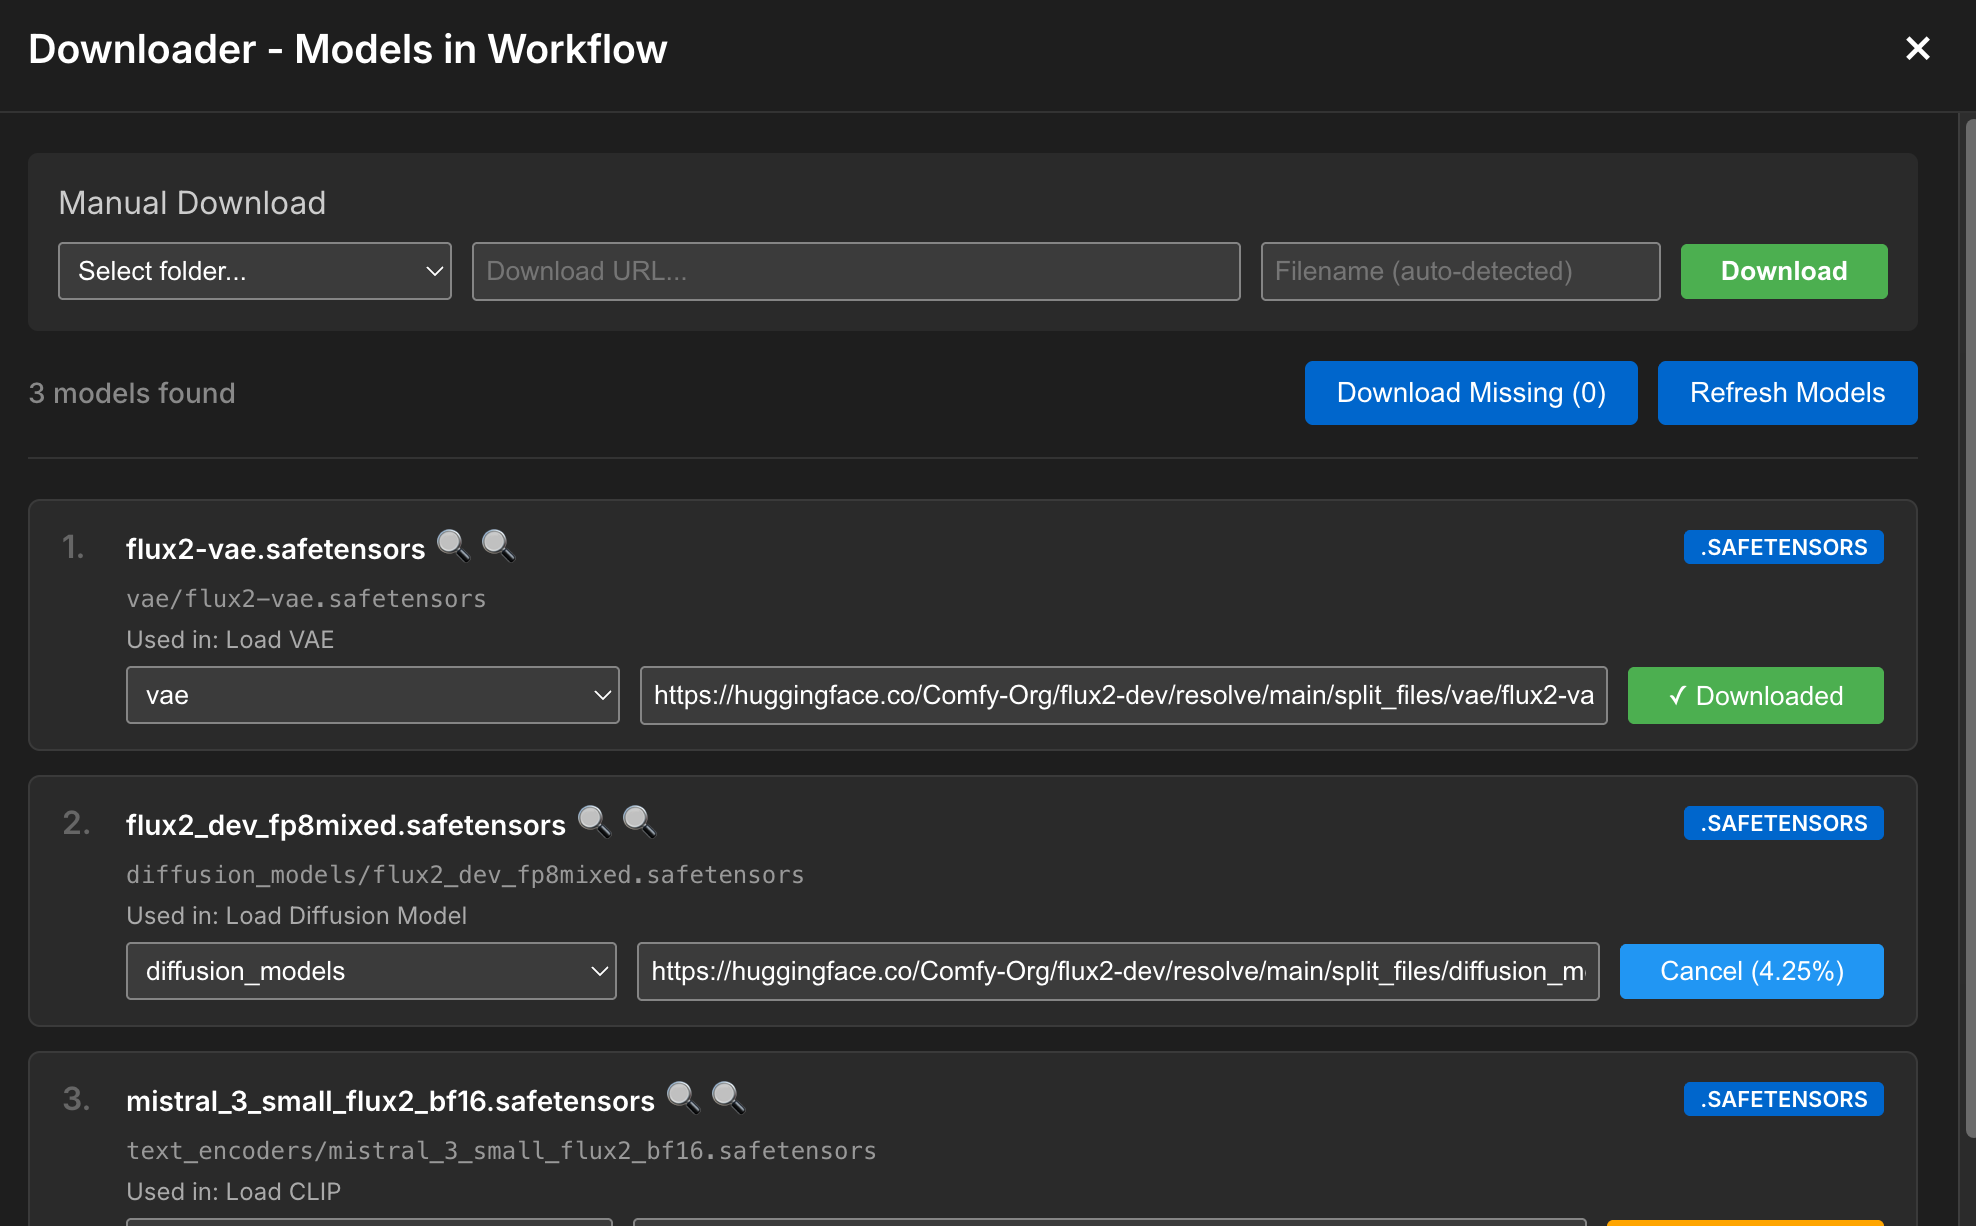
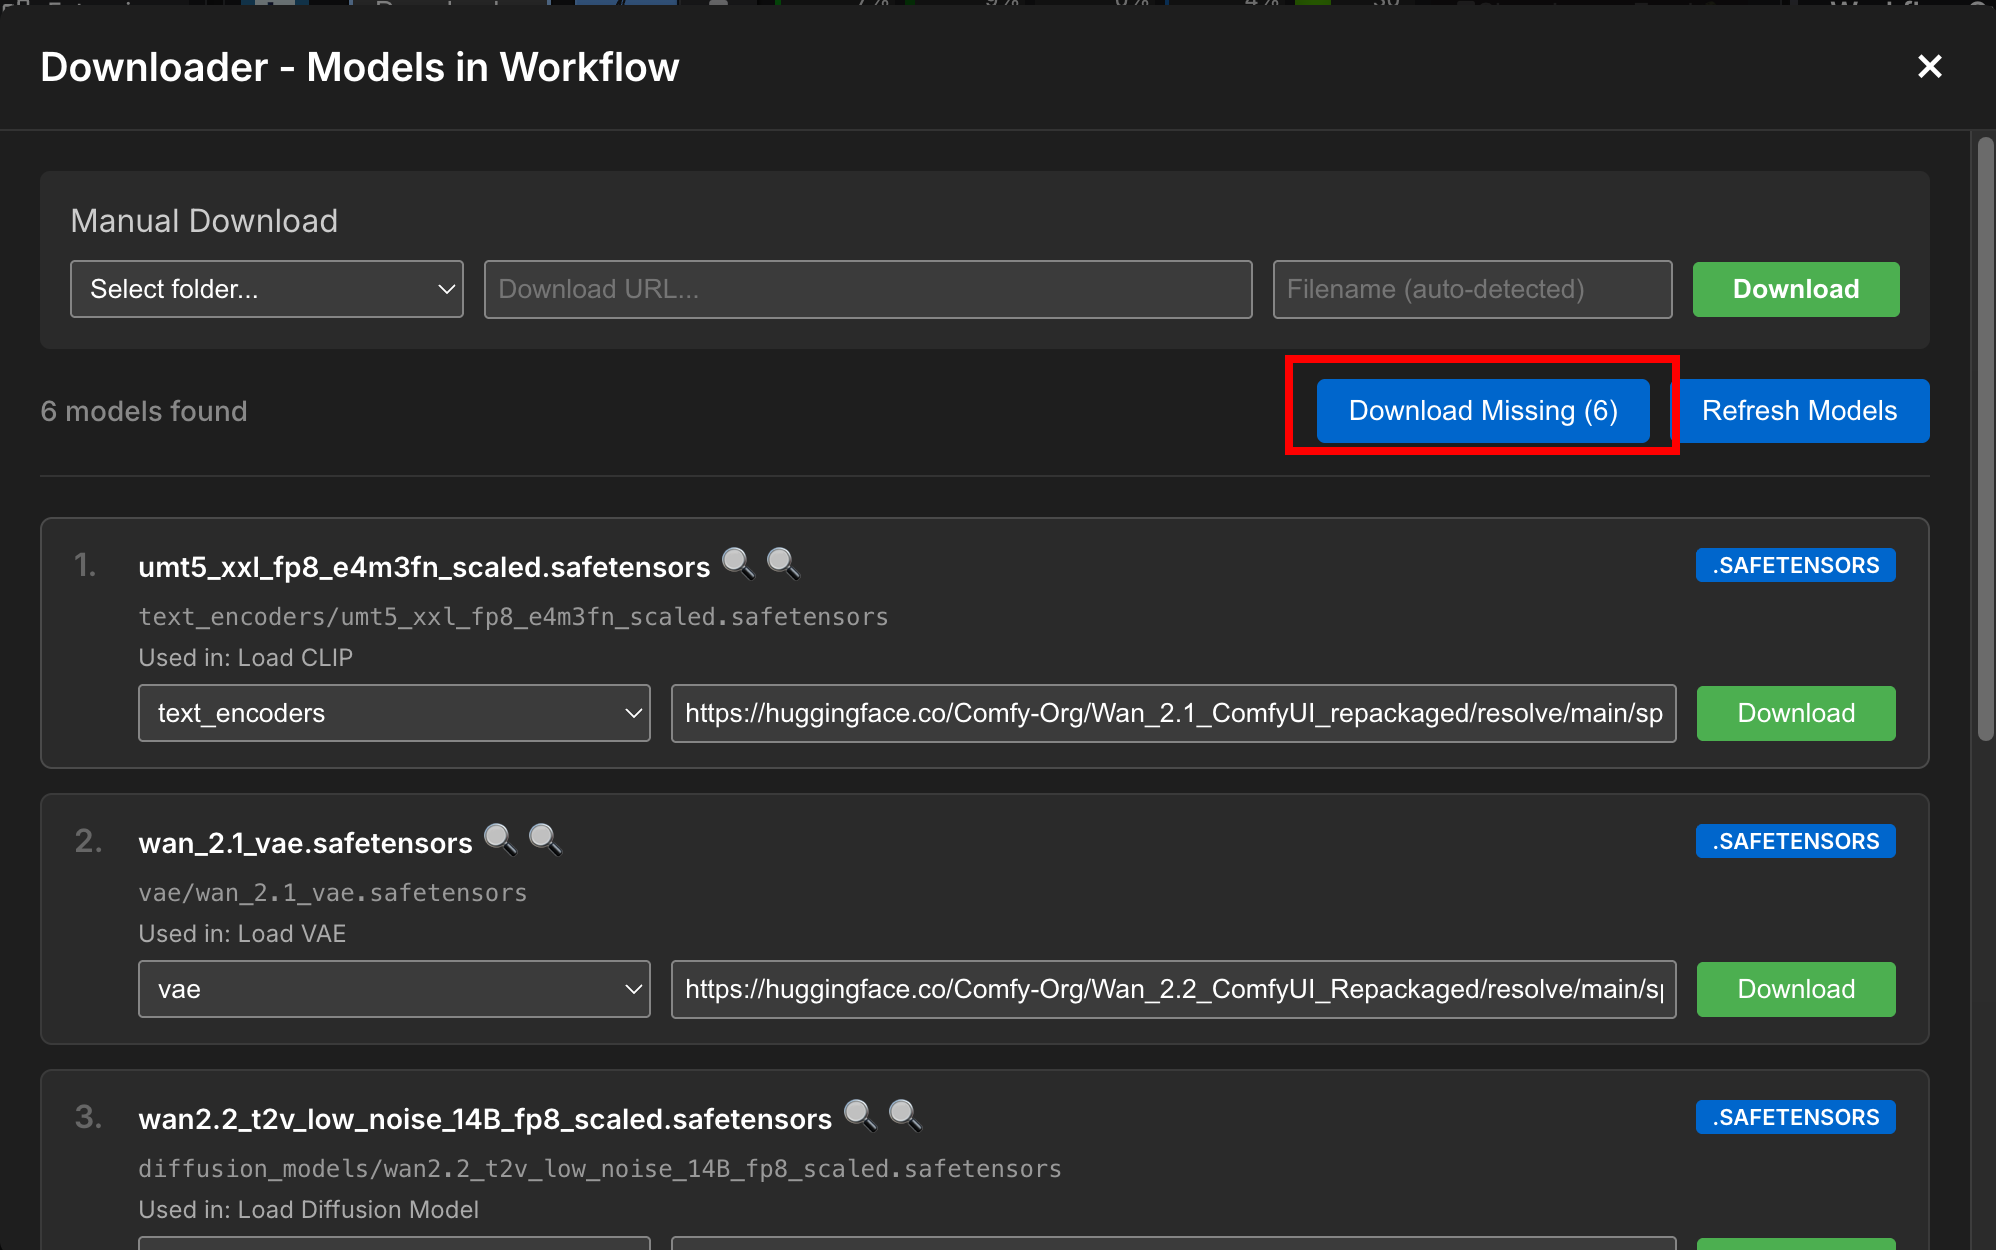
Refresh batch download screenshot

diff --git a/README.md b/README.md
@@ -91,7 +91,7 @@ sdxl/checkpoints/my-model.safetensors
 - The **Download Missing** button queues every missing model that already has a URL and folder configured
 - If any missing model does not have a URL or folder, the batch action stops immediately and shows which entries need to be fixed first
 
-Example of the batch download controls in the top-right action bar:
+Example of the batch download controls in the top-right action bar, with the **Download Missing** button highlighted:
 
 ![Download Missing action bar](assets/download-missing-workflow-models.png)
 
